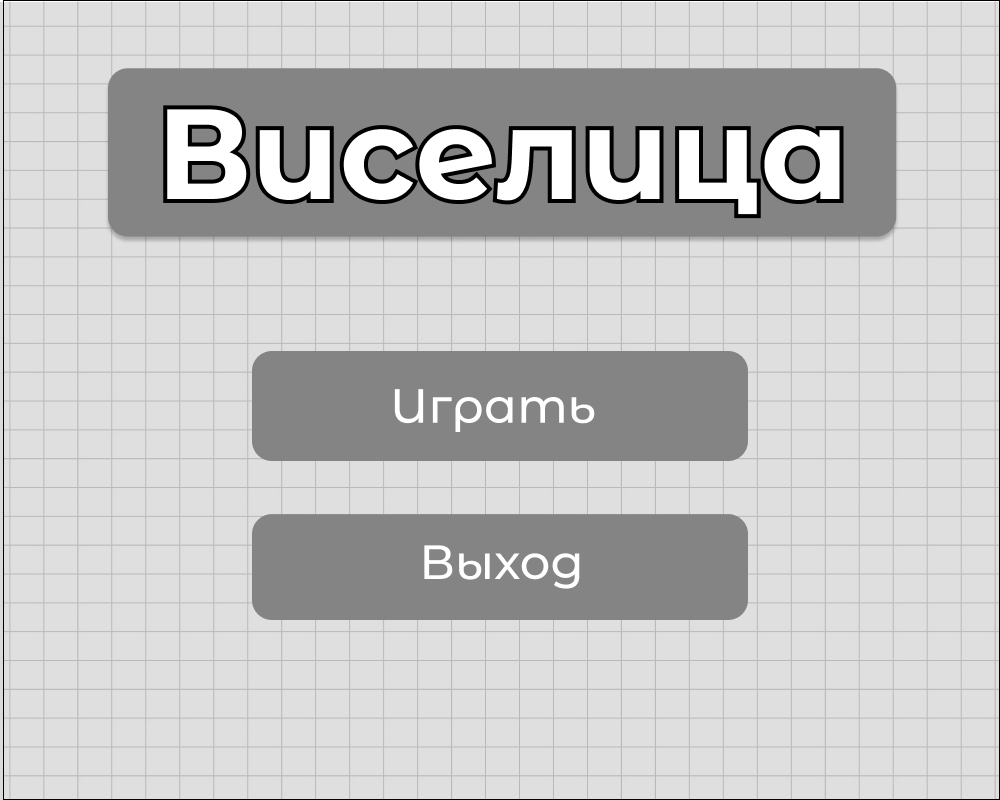
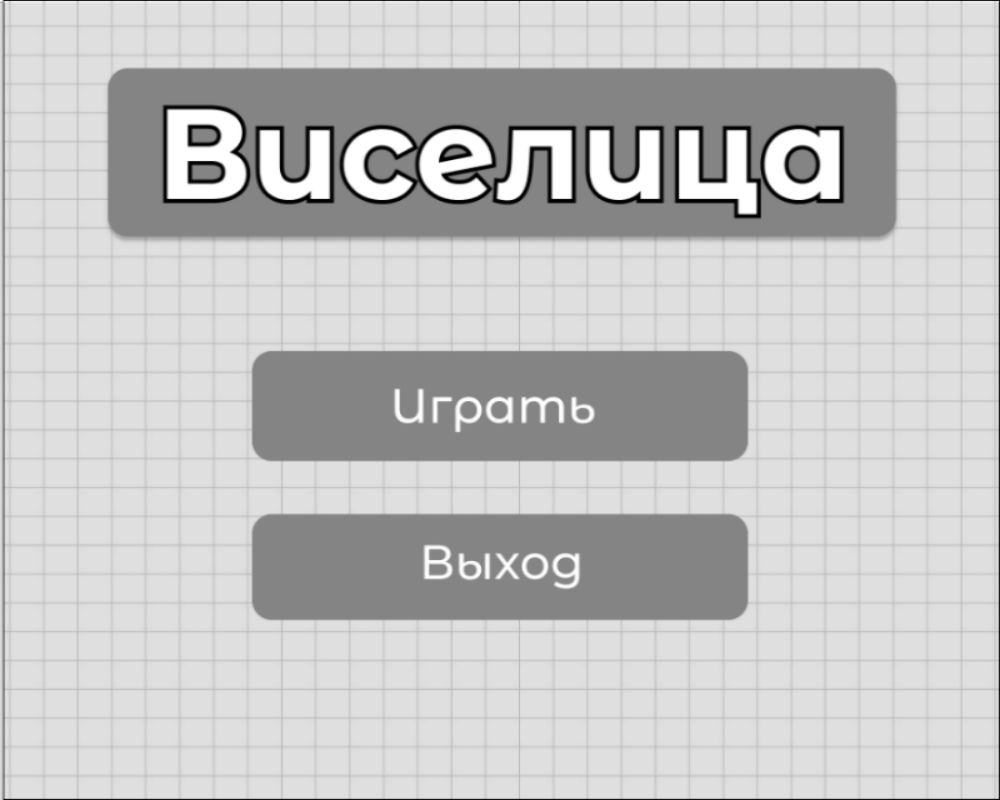
Create 2 buttons in menu

diff --git a/main.cpp b/main.cpp
@@ -31,8 +31,8 @@ struct textures
     RectangleShape rightLeg;
     RectangleShape leftLeg;
     RectangleShape line[4];
-    Texture Texture[5];
-    Sprite Sprite[5];
+    Texture Texture[6];
+    Sprite Sprite[6];
 
 };
 
@@ -91,41 +91,49 @@ void create_textur(textures& struct_texture, int n)
     }
     case(5):
     {
-        RectangleShape line(Vector2f(157.f, 7.f));
-        struct_texture.line[n - 5] = line;
+        Texture menu_texture;
+        Sprite menu;
+        struct_texture.Texture[n] = menu_texture;
+        struct_texture.Sprite[n] = menu;
         break;
     }
     case(6):
     {
-        RectangleShape line(Vector2f(366.f, 7.f));
-        struct_texture.line[n - 5] = line;
+        RectangleShape line(Vector2f(157.f, 7.f));
+        struct_texture.line[n - 6] = line;
         break;
     }
     case(7):
     {
-        RectangleShape line(Vector2f(295.f, 7.f));
-        struct_texture.line[n - 5] = line;
+        RectangleShape line(Vector2f(366.f, 7.f));
+        struct_texture.line[n - 6] = line;
         break;
     }
     case(8):
     {
-        RectangleShape line(Vector2f(55.f, 2.f));
-        struct_texture.line[n - 5] = line;
+        RectangleShape line(Vector2f(295.f, 7.f));
+        struct_texture.line[n - 6] = line;
         break;
     }
     case(9):
+    {
+        RectangleShape line(Vector2f(55.f, 2.f));
+        struct_texture.line[n - 6] = line;
+        break;
+    }
+    case(10):
     {
         CircleShape head(41.f);
         struct_texture.head = head;
         break;
     }
-    case(10):
+    case(11):
     {
         RectangleShape body(Vector2f(130.f, 3.f));
         struct_texture.body = body;
         break;
     }
-    case(11):
+    case(12):
     {
         RectangleShape righthand(Vector2f(70.f, 3.f));
         RectangleShape lefthand;
@@ -174,7 +182,7 @@ void load_textur(RenderWindow& window, textures& struct_texture)
     struct_texture.leftLeg.setPosition(500, 306);
     struct_texture.leftLeg.setFillColor(Color::Black);
 
-    for (int i = 0; i < 9; i++)
+    for (int i = 0; i < 10; i++)
     {
         switch (i)
         {
@@ -213,28 +221,35 @@ void load_textur(RenderWindow& window, textures& struct_texture)
         }
         case(5):
         {
-            struct_texture.line[i - 5].setFillColor(Color::Black);
-            struct_texture.line[i - 5].setPosition(663, 406);
+            struct_texture.Texture[i].loadFromFile("img/menu.png");
+            struct_texture.Sprite[i].setTexture(struct_texture.Texture[i]);
+            struct_texture.Sprite[i].setPosition(0, 0); // kuimgfbvcs
             break;
-        };
+        }
         case(6):
         {
-            struct_texture.line[i - 5].rotate(90.f);
-            struct_texture.line[i - 5].setFillColor(Color::Black);
-            struct_texture.line[i - 5].setPosition(745, 40);
+            struct_texture.line[i - 6].setFillColor(Color::Black);
+            struct_texture.line[i - 6].setPosition(663, 406);
             break;
         };
         case(7):
         {
-            struct_texture.line[i - 5].setFillColor(Color::Black);
-            struct_texture.line[i - 5].setPosition(450, 40);
+            struct_texture.line[i - 6].rotate(90.f);
+            struct_texture.line[i - 6].setFillColor(Color::Black);
+            struct_texture.line[i - 6].setPosition(745, 40);
             break;
         };
         case(8):
         {
-            struct_texture.line[i - 5].rotate(90.f);
-            struct_texture.line[i - 5].setFillColor(Color::Black);
-            struct_texture.line[i - 5].setPosition(500, 40);
+            struct_texture.line[i - 6].setFillColor(Color::Black);
+            struct_texture.line[i - 6].setPosition(450, 40);
+            break;
+        };
+        case(9):
+        {
+            struct_texture.line[i - 6].rotate(90.f);
+            struct_texture.line[i - 6].setFillColor(Color::Black);
+            struct_texture.line[i - 6].setPosition(500, 40);
             break;
         };
         default:
@@ -625,33 +640,62 @@ int main()
     }
 
     //Создание всех текстур и спрайтов
-    RenderWindow window(VideoMode(1000, 800), L"Виселица", Style::Default);
-    for (int i = 0; i < 12; i++) {
+    RenderWindow window(VideoMode(1000, 800), L"Виселица", Style::Close);
+    for (int i = 0; i < 13; i++) {
         create_textur(textures, i);
     }
     load_textur(window, textures);
 
-
+    int button = 0;
+    bool back_flag = 0;
     while (window.isOpen())
     {
         Event event;
         while (window.pollEvent(event))
         {
-            switch(t){
-                case(1) {
-                    switch (event.type) {
-                    case(Event::Closed):
-                        window.close();
-                        break;
-                    case(Event::KeyPressed):
-                        if (event.key.code == Keyboard::Escape) { window.close(); }
-                        break;
-                    default:
-                        break;
+            switch (event.type) {
+            case(Event::Closed):
+                window.close();
+                break;
+            case(Event::KeyPressed):
+                if (event.key.code == Keyboard::Escape) { window.close(); }
+                break;
+            default:
+                break;
+            }
+            //очищаем окно и заливаем нужным цветом;
+            window.clear(Color(217, 217, 217));
+            switch (button) 
+            {
+                case(0):
+                {
+                    window.draw(textures.Sprite[5]);
+                    Vector2i position = Mouse::getPosition(window);
+                    if (Mouse::isButtonPressed(Mouse::Left)) {
+                        int pos_x = position.x; //сохраняем координаты мышки по x
+                        int pos_y = position.y; //сохраняем координаты мышки по y
+                        cout << "Po x:" << pos_x << endl;
+                        cout << "Po y:" << pos_y << endl;
+                        if ((pos_x >= 250) && (pos_x <= 750) && (pos_y >= 350) && (pos_y <= 460))
+                        {
+                            button = 1;
+                        }
+                        else if ((pos_x >= 250) && (pos_x <= 750) && (pos_y >= 514) && (pos_y <= 621)) {
+                            button = 2;
+                        }
                     }
-                    //очищаем окно и заливаем нужным цветом;
-                    window.clear(Color(217, 217, 217));
-
+                    window.display();
+                    break;
+                }
+                case(1):
+                {
+                    if (back_flag == 0)
+                    {
+                        textures.Texture[5].loadFromFile("img/background.png");
+                        textures.Sprite[5].setTexture(textures.Texture[5]);
+                        textures.Sprite[5].setPosition(0, 0); // kuimgfbvcs
+                    }
+                    window.draw(textures.Sprite[5]);
                     //рисуем виссилицу
                     draw_gallows(attempt, window, textures);
 
@@ -722,7 +766,8 @@ int main()
                         const int cord_y = 460; //координаты рисующихся букв по y
 
                         //Если буква есть в слове, то мы даем координаты в следующем цикле она нарисуется
-                        if (flag == 1 && flag_click == 0) {
+                        if (flag == 1 && flag_click == 0)
+                        {
                             for (int i = 0, cord_x = slovo_cord_x - 10; i < len; i++) {
                                 if (NeSlovo[i].bykva == Bykva) {
                                     NeSlovo[i].letter.setPosition(cord_x, cord_y);
@@ -732,11 +777,17 @@ int main()
                                 cord_x += 60;
                             }
                         }
+                    }
+                    window.display();
+                    break;
+                }
+                case(2):
+                {
+                    window.close();
+                    break;
+                }
+                
             }
         }
-            window.display();
-
-        }
     }
-    return 0;
 }
